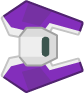
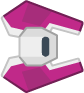
MixedPhasing -> Barrier, ShieldPhasing -> MixedPhasing

diff --git a/html/enemy_showcase.html b/html/enemy_showcase.html
@@ -3,9 +3,9 @@
 <div class="icon-showcase"><strong>Skirmisher</strong>{{Enemy|Skirmisher|Hull|Size=}}{{C|<nowiki>{{Enemy|Skirmisher}}</nowiki>}}</div>
 <div class="icon-showcase"><strong>Sniper</strong>{{Enemy|Sniper|Armor|Size=}}{{C|<nowiki>{{Enemy|Sniper}}</nowiki>}}</div>
 <div class="icon-showcase"><strong>Juggernaut</strong>{{Enemy|Juggernaut|Mixed|Size=}}{{C|<nowiki>{{Enemy|Juggernaut}}</nowiki>}}</div>
-<div class="icon-showcase"><strong>Frigate</strong>{{Enemy|Frigate|ShieldPhasing|Size=}}{{C|<nowiki>{{Enemy|Frigate}}</nowiki>}}</div>
+<div class="icon-showcase"><strong>Frigate</strong>{{Enemy|Frigate|MixedPhasing|Size=}}{{C|<nowiki>{{Enemy|Frigate}}</nowiki>}}</div>
 <div class="icon-showcase"><strong>Gatling</strong>{{Enemy|Gatling|Phasing|Size=}}{{C|<nowiki>{{Enemy|Gatling}}</nowiki>}}</div>
-<div class="icon-showcase"><strong>Missiles</strong>{{Enemy|Missiles|MixedPhasing|Size=}}{{C|<nowiki>{{Enemy|Missiles}}</nowiki>}}</div>
+<div class="icon-showcase"><strong>Missiles</strong>{{Enemy|Missiles|Barrier|Size=}}{{C|<nowiki>{{Enemy|Missiles}}</nowiki>}}</div>
 <div class="icon-showcase"><strong>Bulwark</strong>{{Enemy|Bulwark|Regen|Size=}}{{C|<nowiki>{{Enemy|Bulwark}}</nowiki>}}</div>
 <div class="icon-showcase"><strong>Capital</strong>{{Enemy|Capital|Size=}}{{C|<nowiki>{{Enemy|Capital}}</nowiki>}}</div>
 <div class="icon-showcase"><strong>Veiled</strong>{{Enemy|Veiled|Size=}}{{C|<nowiki>{{Enemy|Veiled}}</nowiki>}}</div>
